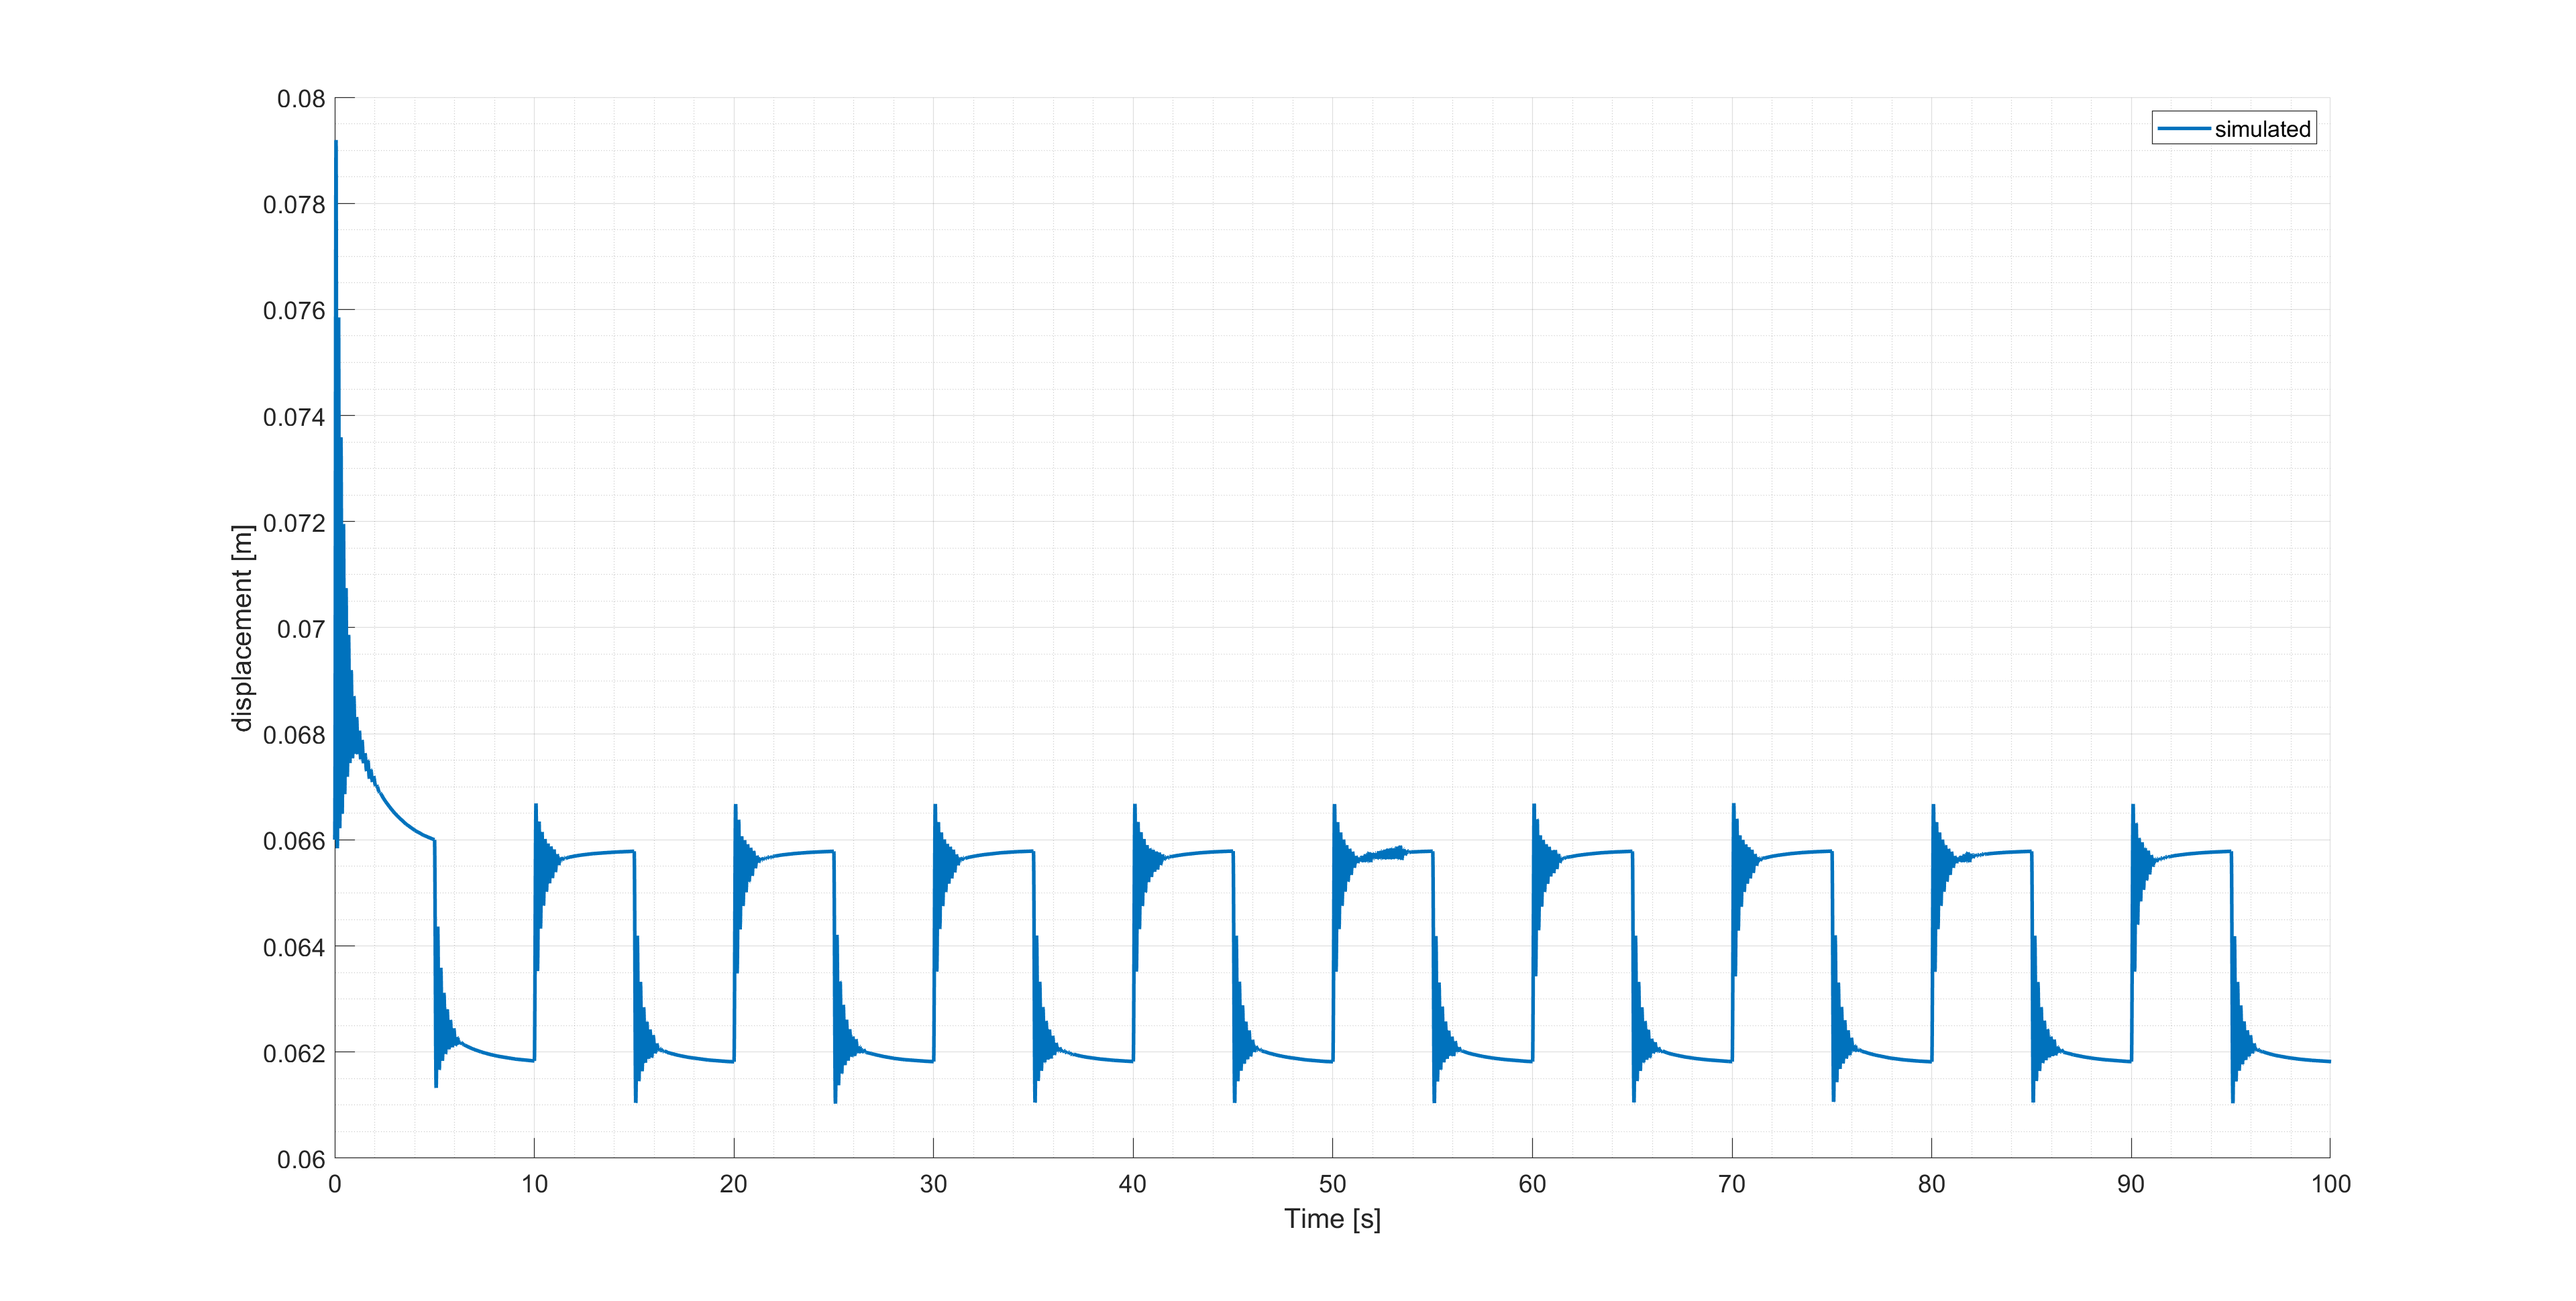
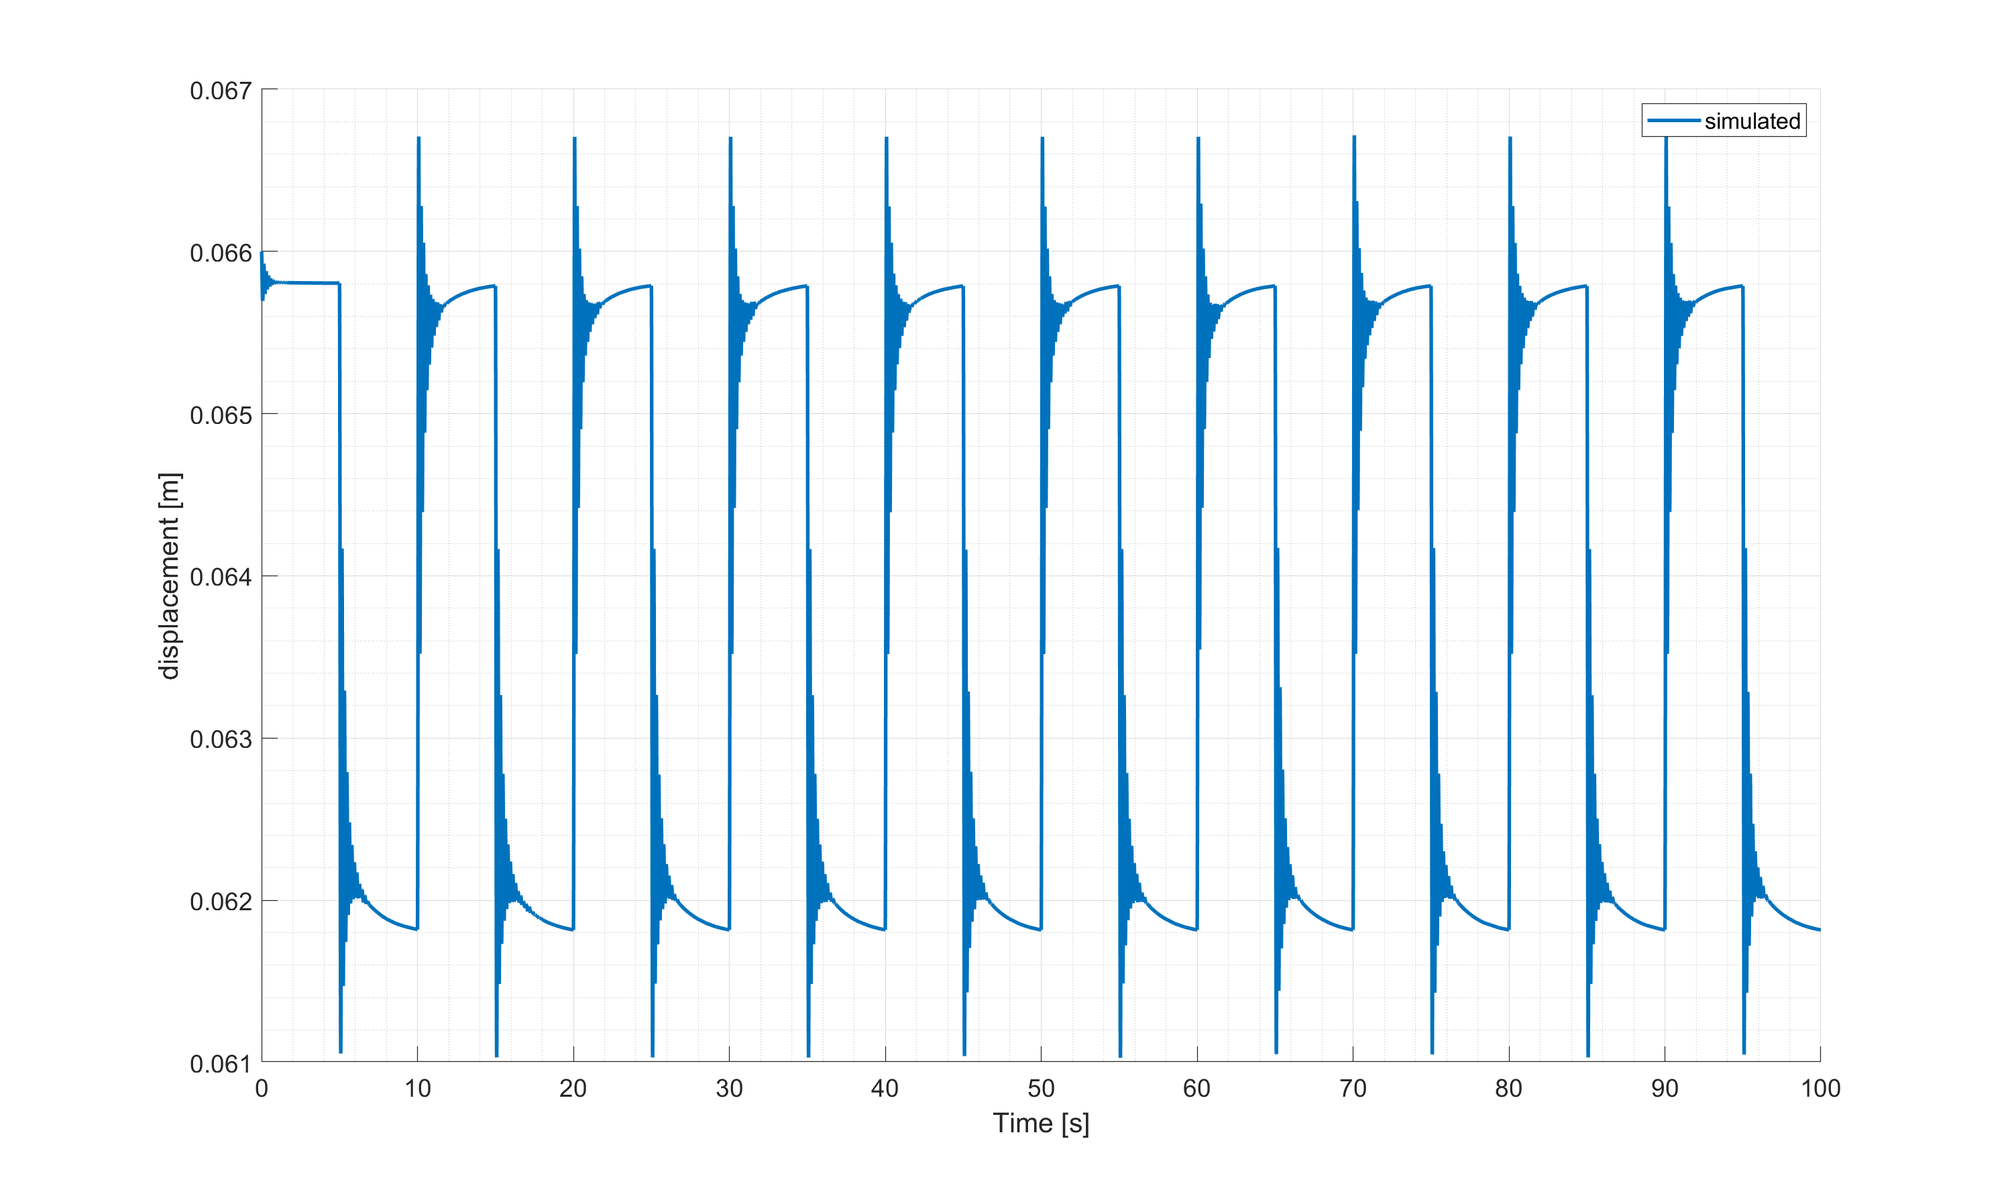
improved epsilon

diff --git a/Homework 6/task_1_a/Parameter.m b/Homework 6/task_1_a/Parameter.m
@@ -16,7 +16,7 @@ params.rho = 1e12;                      %	DE resistivity [Ohm*m]
 params.Re_s = 50;                       %	Electrodes resistance scaling coefficient [Ohm*m^2]
 
 initConds = struct;		% initial conditions
-initConds.epsilon           = 1.24;                                              % 	Initial strain, only used to compute initial viscoelastic strains [-]
+initConds.epsilon           = 0.318;                                              % 	Initial strain, only used to compute initial viscoelastic strains [-]
 initConds.epsilon_v 		= initConds.epsilon*ones(size(params.kv));        % 	Initial viscoelastic strain [-]
 initConds.q                 = 0;                                              % 	Initial charge [C]
 

diff --git a/Homework 6/task_1_b/Parameter.m b/Homework 6/task_1_b/Parameter.m
@@ -16,7 +16,7 @@ params.rho = 1e12;                      %	DE resistivity [Ohm*m]
 params.Re_s = 50;                       %	Electrodes resistance scaling coefficient [Ohm*m^2]
 
 initConds = struct;		% initial conditions
-initConds.epsilon           = 1.32;                                              % 	Initial strain, only used to compute initial viscoelastic strains [-]
+initConds.epsilon           = 0.36;                                              % 	Initial strain, only used to compute initial viscoelastic strains [-]
 initConds.epsilon_v 		= initConds.epsilon*ones(size(params.kv));        % 	Initial viscoelastic strain [-]
 initConds.q                 = 0;                                              % 	Initial charge [C]
 

diff --git a/Homework 6/task_1_c/Parameter.m b/Homework 6/task_1_c/Parameter.m
@@ -16,7 +16,7 @@ params.rho = 1e12;                      %	DE resistivity [Ohm*m]
 params.Re_s = 50;                       %	Electrodes resistance scaling coefficient [Ohm*m^2]
 
 initConds = struct;		% initial conditions
-initConds.epsilon           = 1.06;                                              % 	Initial strain, only used to compute initial viscoelastic strains [-]
+initConds.epsilon           = 0.1;                                              % 	Initial strain, only used to compute initial viscoelastic strains [-]
 initConds.epsilon_v 		= initConds.epsilon*ones(size(params.kv));        % 	Initial viscoelastic strain [-]
 initConds.q                 = 0;                                              % 	Initial charge [C]
 
